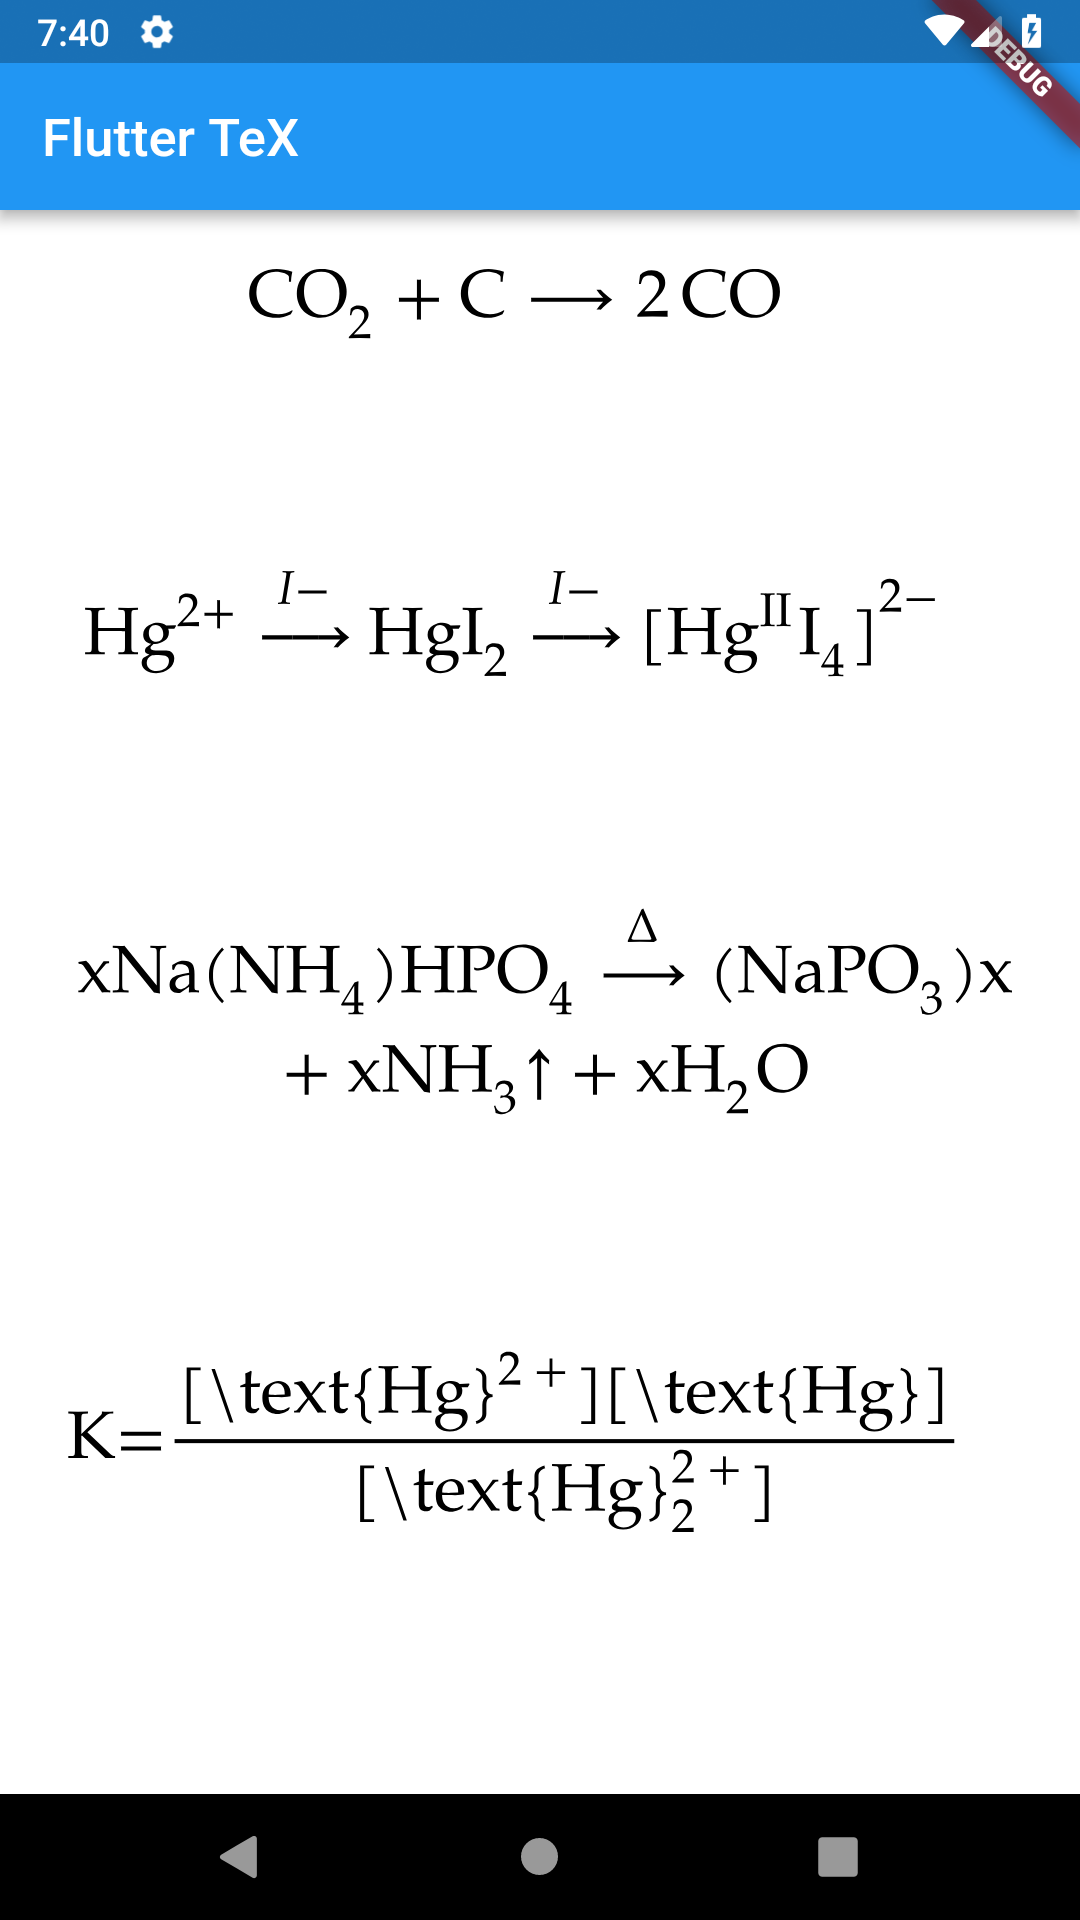
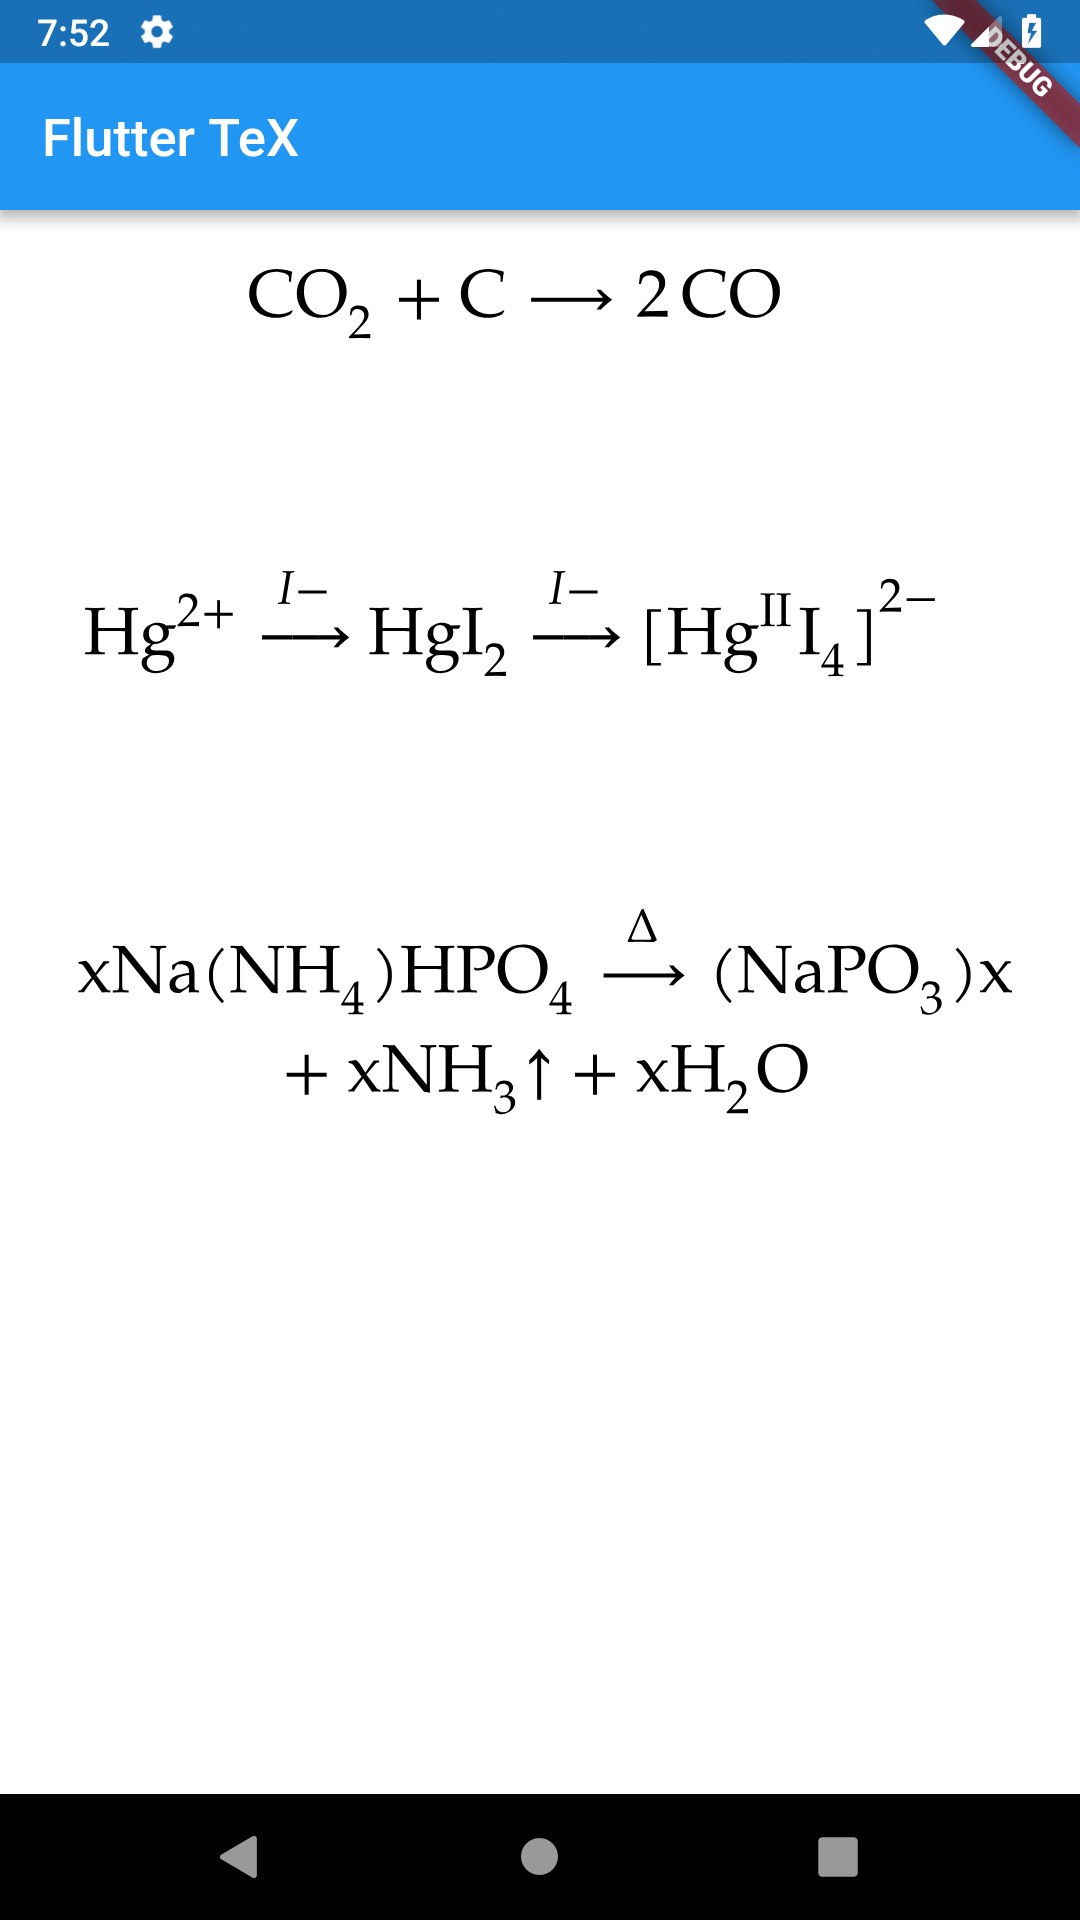
screenshotss

Changed region(s): [[0.1528, 0.7188, 0.8861, 0.8125], [0.0611, 0.7188, 0.0917, 0.7812], [0.0611, 0.0, 0.0917, 0.0312]]

diff --git a/lib/main.dart b/lib/main.dart
@@ -29,9 +29,7 @@ class _MyAppState extends State<MyApp> {
    
    \$\$\\ce{x Na(NH4)HPO4 ->[\\Delta] (NaPO3)_x + x NH3 ^ + x H2O}\$\$ <br><br>
       
-   
-   \$\$\\ce{\$\$K = \\frac{[\\ce{Hg^2+}][\\ce{Hg}]}{[\\ce{Hg2^2+}]}\$\$}\$\$ <br><br>
-  
+    
     </p>
 
   
